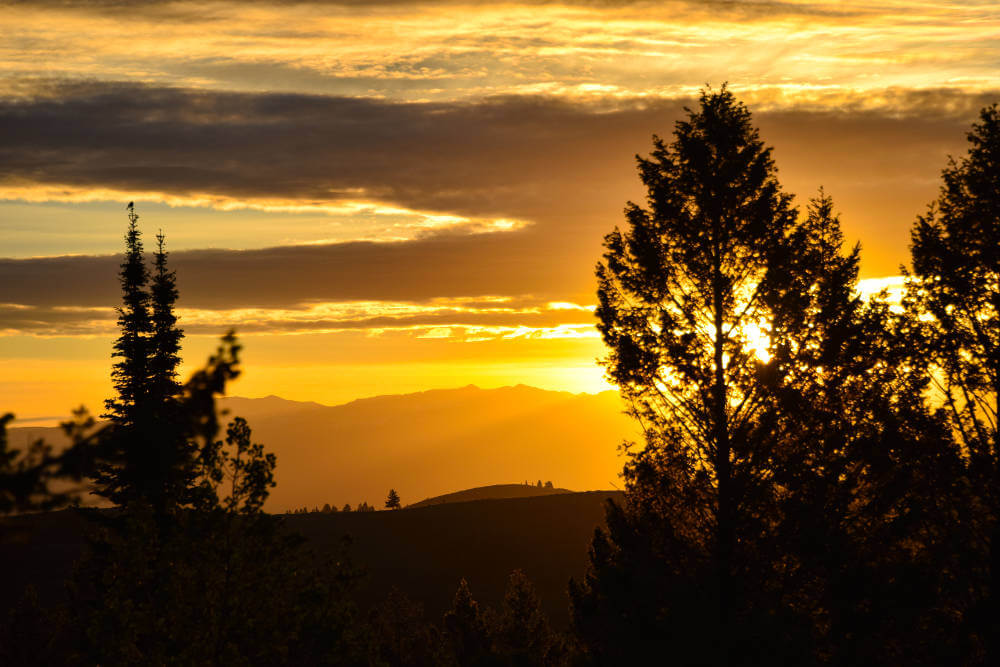
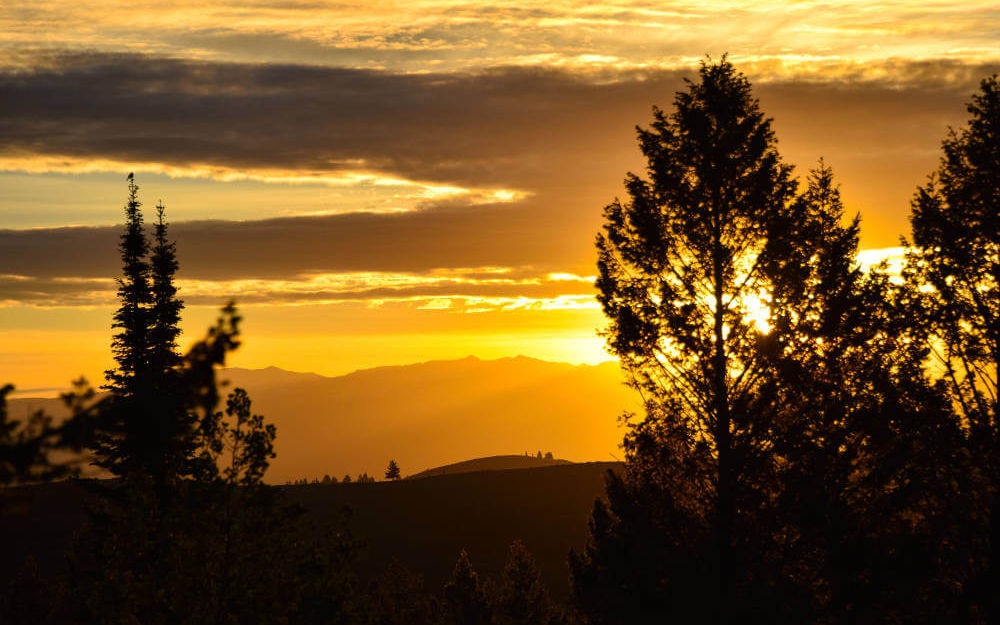
adjust landing page pictures and sub-header

diff --git a/index.html b/index.html
@@ -219,7 +219,7 @@
             <div class="row">
                 <div class="col-12 col-md-6 mrgn-30">
                     <div class="single_gallery_item current about_us_thumb" onclick="void(0)">
-                        <img src="img/gallery/teton-timbers-ranch-idaho/teton-sunset.jpg" alt="">
+                        <img src="img/gallery/teton-timbers-ranch-idaho/idaho-sunset.jpg" alt="">
                         <!-- Single gallery Item hover caption -->
                         <div class="hover_overlay">
                             <div class="table">
@@ -234,7 +234,7 @@
                                 <a class="vid_btn" href="https://vimeo.com/225447559"><i class="fa fa-lg fa-video-camera" aria-hidden="true"></i></a>
                             </div>
                             <div class="image_zoom_in">
-                                <a class="gallery_img teton" href="img/gallery/teton-timbers-ranch-idaho/teton-sunset.jpg"><i class="fa fa-lg fa-camera" aria-hidden="true"></i></a>
+                                <a class="gallery_img teton" href="img/gallery/teton-timbers-ranch-idaho/idaho-sunset.jpg"><i class="fa fa-lg fa-camera" aria-hidden="true"></i></a>
                             </div>
                         </div>
                     </div>
@@ -966,7 +966,7 @@
             </div>
             <!-- Single gallery Item Start -->
             <div class="single_gallery_item teton">
-                <a class="gallery_img teton" href="img/gallery/teton-timbers-ranch-idaho/idaho-sunset.jpg">
+                <a class="gallery_img teton" href="img/gallery/teton-timbers-ranch-idaho/teton-sunset.jpg">
                 </a>
             </div>
             <!-- Single gallery Item Start -->
@@ -1309,7 +1309,7 @@
                     <!-- Section Heading Start -->
                     <div class="section_heading_special">
                         <h2>Value Creation</h2>
-                        <h5 class="text-center otherfont">We create financial value by improving the environment</h5>
+                        <h5 class="text-center otherfont">We Improve the Environment to Create Finanacial Value</h5>
                     </div>
                 </div>
             </div>
@@ -1393,7 +1393,7 @@
                         </div>
                         <!-- Single Service content -->
                         <div class="single_service_content">
-                            <p>We make properties more valuable by converting the agricultural operations to be sustainable and organic, supporting local ranchers, food systems, and wildlife.</p>
+                            <p>We make properties more valuable by converting the agricultural operations to be sustainable and organic, supporting local ranchers, food systems, and wildlife.<span class="placeholder">--------------------</span></p>
                             <p>Learn More <i class="fa fa-angle-double-right" aria-hidden="true"></i></p>
                         </div>
                     </div>
@@ -1414,7 +1414,7 @@
                         </div>
                         <!-- Single Service content -->
                         <div class="single_service_content">
-                            <p>We make properties more valuable by planning for appropriate development, protecting critical open spaces and restoring wildlife habitat.<span class="placeholder">------------------------</span></p>
+                            <p>We make properties more valuable by planning for appropriate development, protecting critical open spaces and restoring wildlife habitat.<span class="placeholder">--------------------------------------</span></p>
                             <p>Learn More <i class="fa fa-angle-double-right" aria-hidden="true"></i></p>
                         </div>
                     </div>
